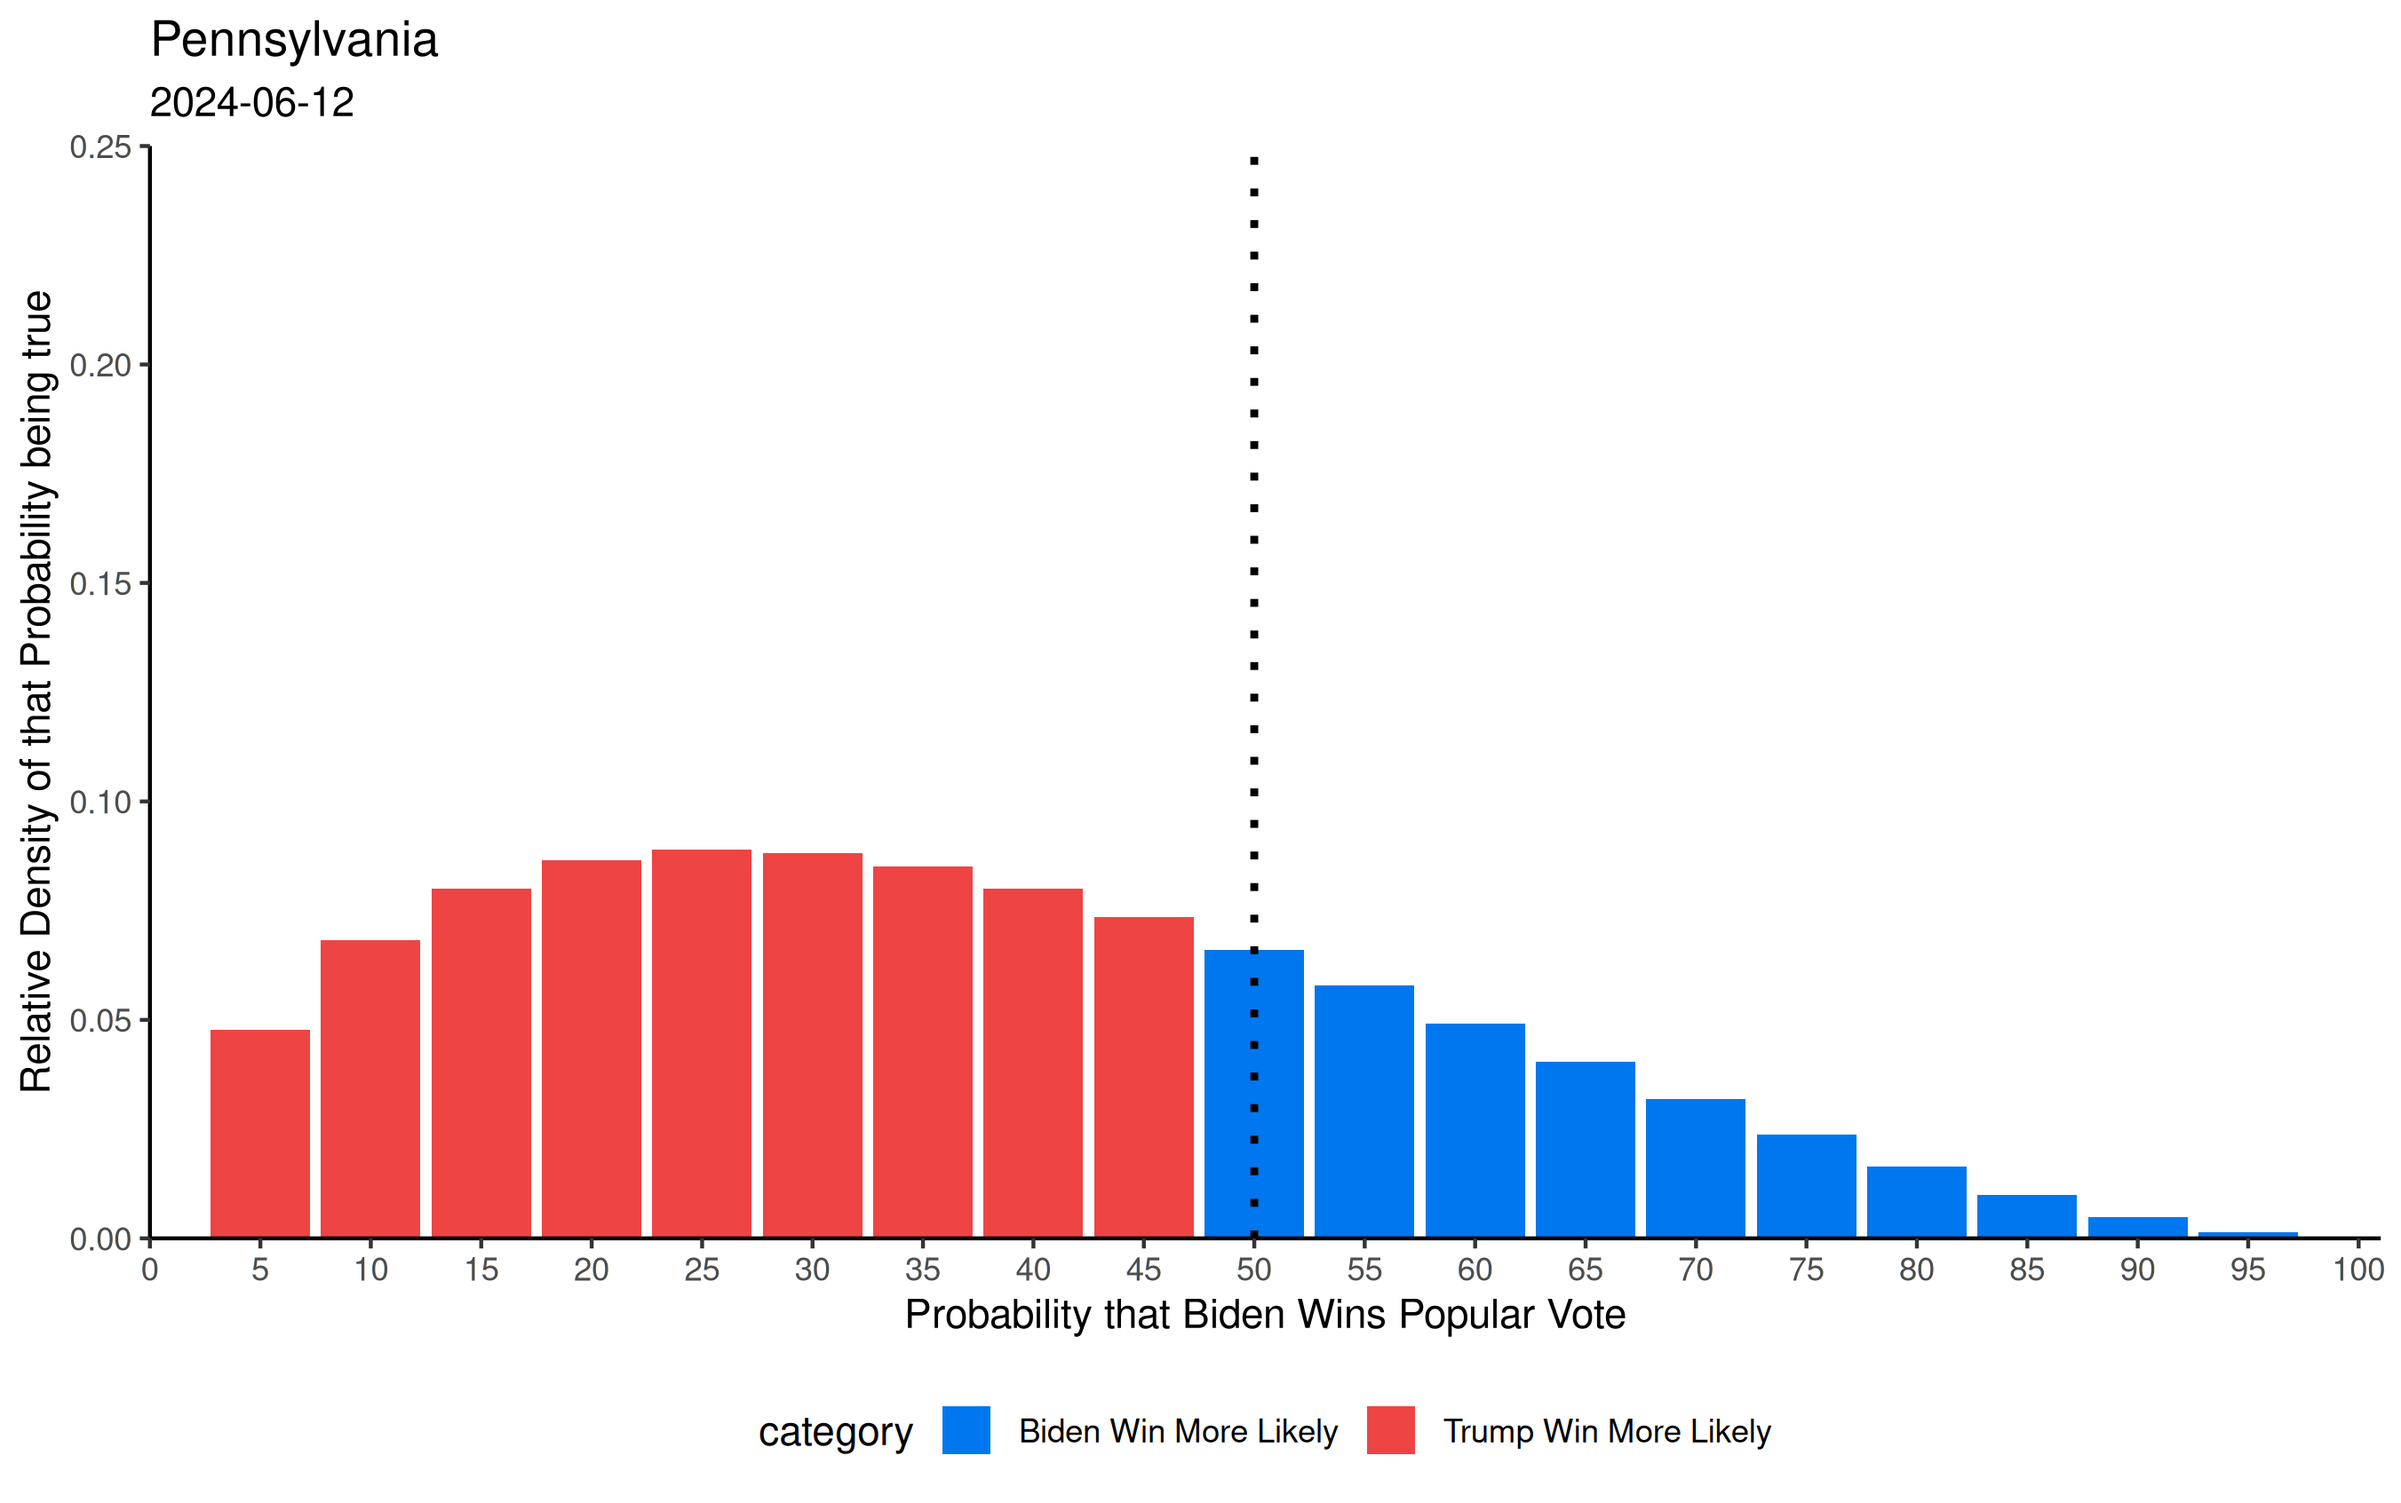
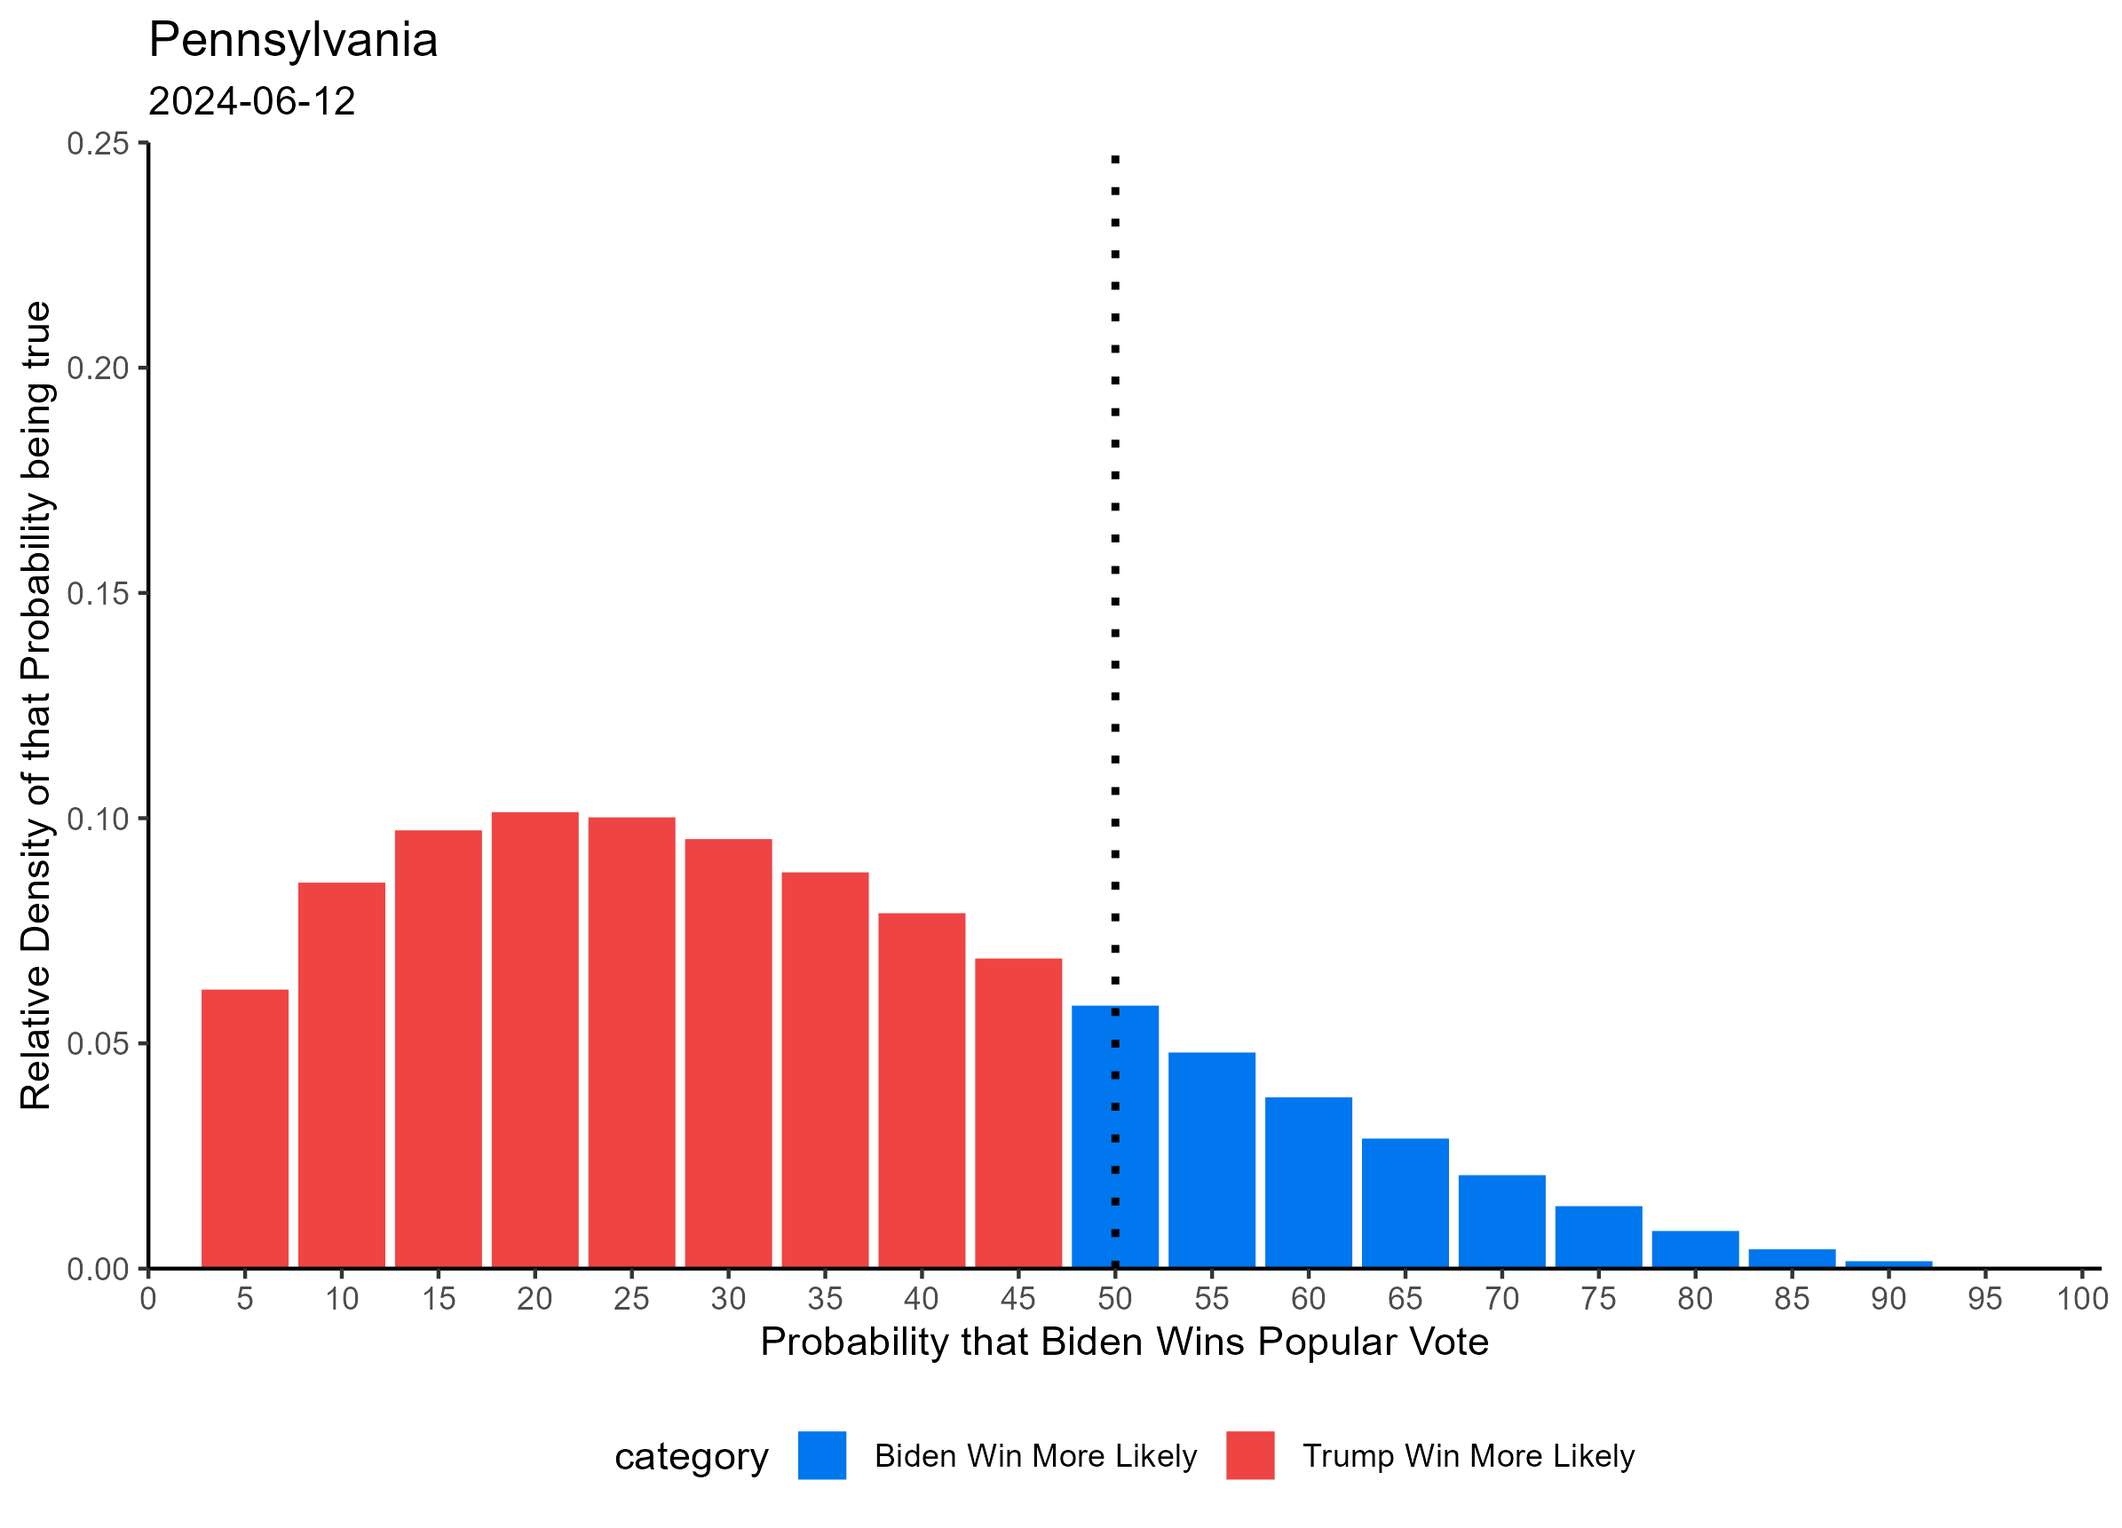
updated charts

Changed region(s): [[0.0, 0.0, 1.0, 0.8907], [0.3096, 0.9214, 0.7741, 0.9829]]

diff --git a/election/polls.html b/election/polls.html
@@ -6,7 +6,7 @@
 	<table>
 		<tr>
 			<td><img src="popular vote 2024-06-12.png", width="100%"></td>
-			<td><p>Polls compiled by <a href="https://projects.fivethirtyeight.com/polls/">FiveThirtyEight</a> and analysis done by me. </p>
+			<td><p>Polls compiled by <a href="https://projects.fivethirtyeight.com/polls/">FiveThirtyEight</a> and analysis done by me. This analysis is of the almost 9,000 polls conducted in the United States.</p>
 
 			<p>The analysis is a beta distribution where the two parameters are how many wins Biden or Trump got in polls. The wins are 	weighted by how long ago they were (half life of 2 weeks), what the sample was (adults, registered voters, likely voters), and sample size. this analysis includes every Trump v. Biden poll going back to June 1.</p>
 
@@ -26,9 +26,9 @@
 	<br>
 	<h1>How About the Electoral College?</h1>
 	<h3>The Chance Trump Wins the Electoral College is</h3> 
-    <h1><div style="background: #ffcc00; color: #000; padding: 5px; max-width: 60pt;">80%</div></h1>
+    <h1><div style="background: #ffcc00; color: #000; padding: 5px; max-width: 60pt;">84%</div></h1>
 	<h3>Here's the Relative Likelihood of each vote total in the Electoral College</h3>
-	<img src="electoral college 2024-06-12.png" width="50%">s
+	<img src="electoral college 2024-06-12.png" width="50%">
 	<p>
 		There are only a few states that matter. These 8 are the ones that had the closest vote totals in 2020. This method assumes that all the other states will go the way they did in 2020.
 	</p>
